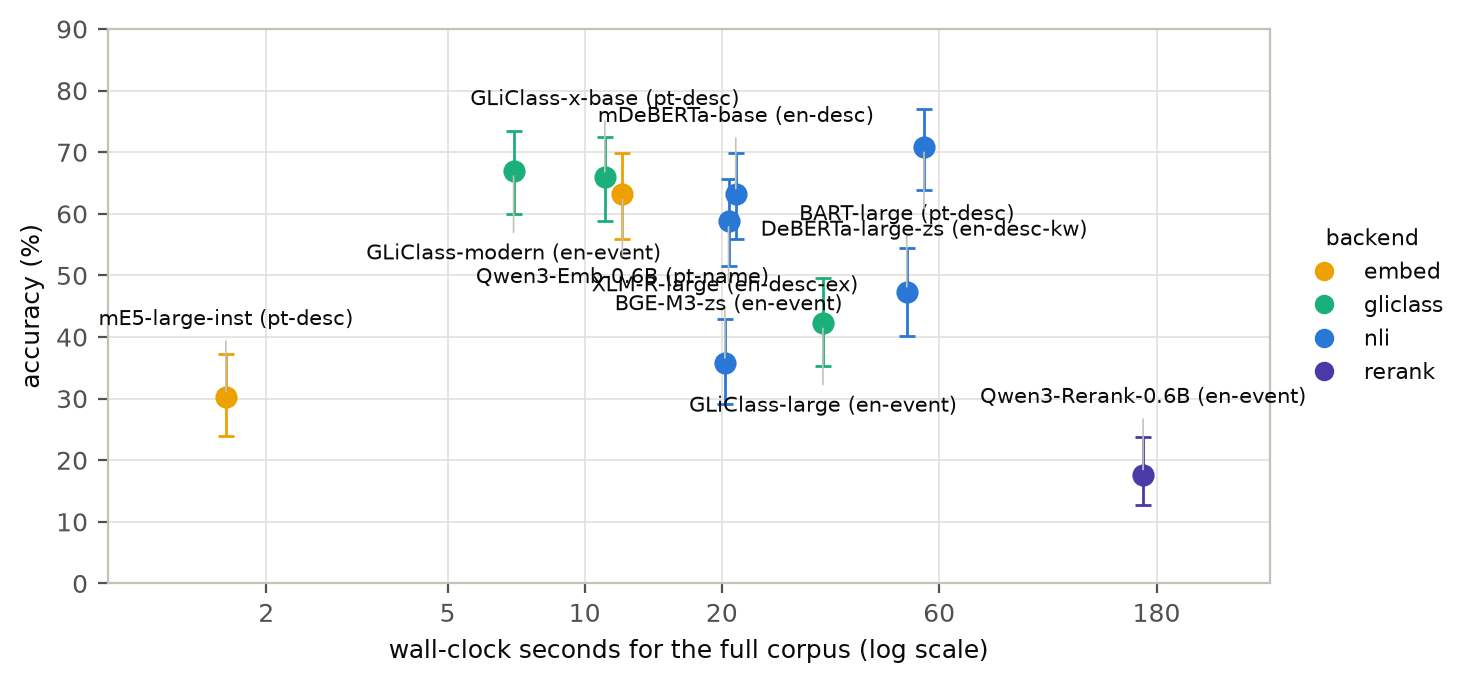
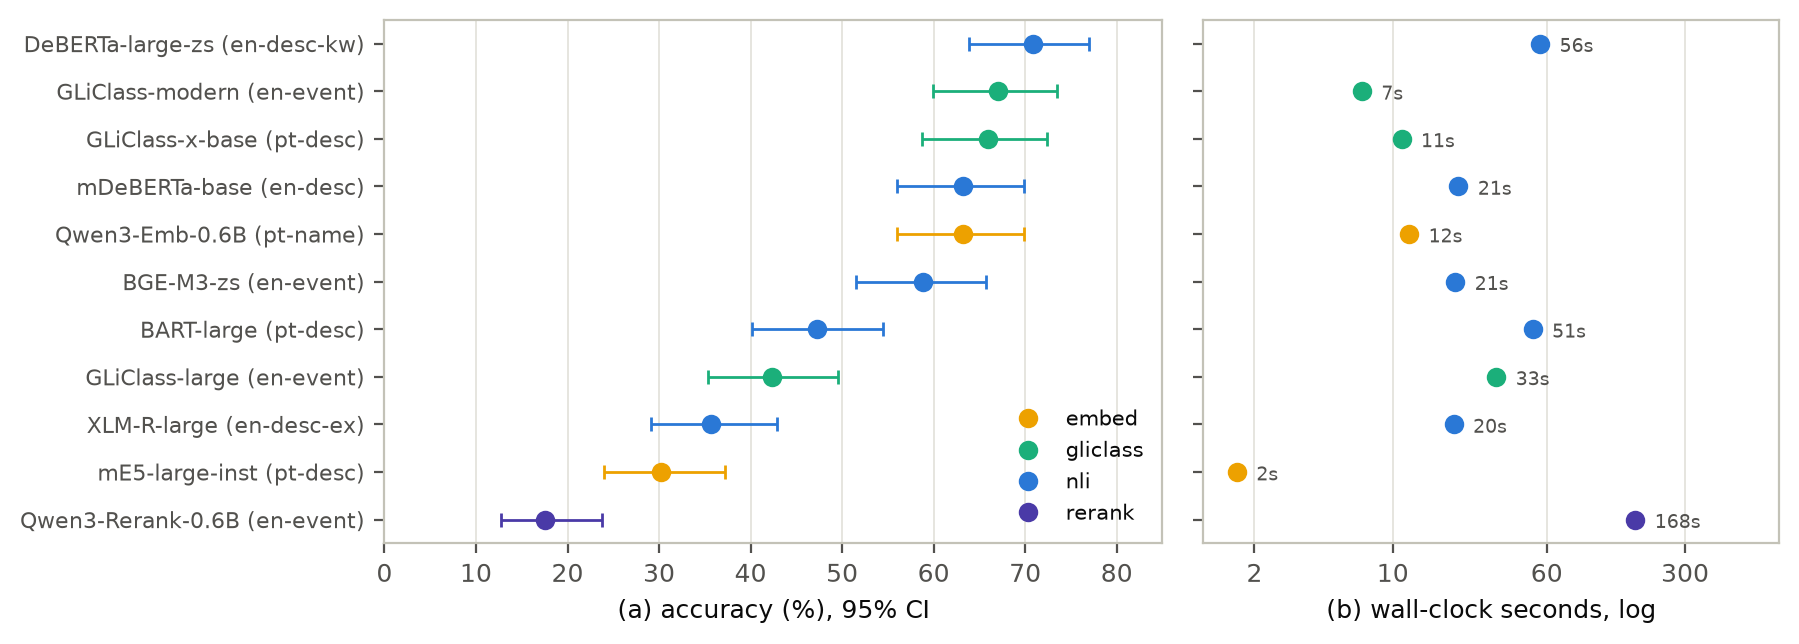
fig_cost: two-panel dot plot

diff --git a/scripts/make_figures.py b/scripts/make_figures.py
@@ -96,44 +96,52 @@ BACKEND_COLOR = {"nli": CAT[0], "gliclass": CAT[1], "embed": CAT[2], "rerank": C
 
 
 def fig_cost(runs: list[dict], out: Path) -> None:
-    """Cost x quality: best run per checkpoint across ALL views and configs."""
+    """Cost x quality as a two-panel dot plot: no in-plot label collisions.
+
+    One row per checkpoint (best run across all views/configs), sorted by
+    accuracy; panel (a) accuracy with Wilson CI, panel (b) wall-clock (log).
+    """
     best = {}
     for r in runs:
         key = r["model"].split("/")[-1]
         if key not in best or r["metrics"]["accuracy"] > best[key]["metrics"]["accuracy"]:
             best[key] = r
-    fig, ax = plt.subplots(figsize=(7.5, 3.6))
-    items = sorted(best.items(), key=lambda kv: kv[1]["wall_seconds"])
-    seen_backends = {}
-    for k, (name, r) in enumerate(items):
-        x = r["wall_seconds"]
-        y = r["metrics"]["accuracy"] * 100
+    items = sorted(best.items(), key=lambda kv: kv[1]["metrics"]["accuracy"])
+    names = [f"{MODEL_SHORT.get(k, k)} ({r['prompt_config']})" for k, r in items]
+    ys = np.arange(len(items))
+    colors = [BACKEND_COLOR.get(r.get("backend", "nli"), CAT[5]) for _, r in items]
+
+    fig, (ax1, ax2) = plt.subplots(
+        1, 2, figsize=(9, 3.4), sharey=True,
+        gridspec_kw={"width_ratios": [1.35, 1], "wspace": 0.06})
+    for y, (k, r), c in zip(ys, items, colors):
+        acc = r["metrics"]["accuracy"] * 100
         lo, hi = (v * 100 for v in r["metrics"]["accuracy_ci95"])
-        backend = r.get("backend", "nli")
-        color = BACKEND_COLOR.get(backend, CAT[5])
-        seen_backends[backend] = color
-        ax.errorbar(x, y, yerr=[[y - lo], [hi - y]], fmt="o", color=color,
-                    markersize=7, capsize=3, lw=1)
-        above = k % 2 == 0
-        ax.annotate(f"{MODEL_SHORT.get(name, name)} ({r['prompt_config']})",
-                    (x, y), textcoords="offset points",
-                    xytext=(0, 26 if above else -32), ha="center", fontsize=7.5,
-                    arrowprops={"arrowstyle": "-", "color": "#c3c2b7", "lw": 0.6})
-    ax.set_xscale("log")
-    ax.set_xticks([2, 5, 10, 20, 60, 180])
-    ax.get_xaxis().set_major_formatter(matplotlib.ticker.ScalarFormatter())
-    ax.minorticks_off()
-    xs = [r["wall_seconds"] for _, r in items]
-    ax.set_xlim(min(xs) * 0.55, max(xs) * 1.9)
-    ax.set_xlabel("wall-clock seconds for the full corpus (log scale)")
-    ax.set_ylabel("accuracy (%)")
-    ax.set_ylim(0, 90)
+        ax1.errorbar(acc, y, xerr=[[acc - lo], [hi - acc]], fmt="o", color=c,
+                     markersize=6, capsize=2.5, lw=1)
+        ax2.plot([r["wall_seconds"]], [y], "o", color=c, markersize=6)
+        ax2.annotate(f"{r['wall_seconds']:.0f}s", (r["wall_seconds"], y),
+                     textcoords="offset points", xytext=(7, -3), fontsize=7,
+                     color="#52514e")
+    ax1.set_yticks(ys, names, fontsize=8)
+    ax1.set_xlabel("(a) accuracy (%), 95% CI")
+    ax1.set_xlim(0, 85)
+    ax2.set_xscale("log")
+    ax2.set_xticks([2, 10, 60, 300])
+    ax2.get_xaxis().set_major_formatter(matplotlib.ticker.ScalarFormatter())
+    ax2.minorticks_off()
+    ax2.set_xlim(1.1, 900)
+    ax2.set_xlabel("(b) wall-clock seconds, log")
+    seen = {}
+    for _, r in items:
+        b = r.get("backend", "nli")
+        seen[b] = BACKEND_COLOR.get(b, CAT[5])
     handles = [matplotlib.lines.Line2D([], [], marker="o", ls="", color=c, label=b)
-               for b, c in sorted(seen_backends.items())]
-    ax.legend(handles=handles, frameon=False, fontsize=8, loc="center left",
-              bbox_to_anchor=(1.01, 0.5), title="backend", title_fontsize=8)
-    ax.grid(True, color="#e1e0d9", lw=0.6)
-    ax.set_axisbelow(True)
+               for b, c in sorted(seen.items())]
+    ax1.legend(handles=handles, frameon=False, fontsize=7.5, loc="lower right")
+    for ax in (ax1, ax2):
+        ax.grid(True, axis="x", color="#e1e0d9", lw=0.6)
+        ax.set_axisbelow(True)
     fig.savefig(out / "fig_cost.pdf")
     fig.savefig(out / "fig_cost.png")
     plt.close(fig)
